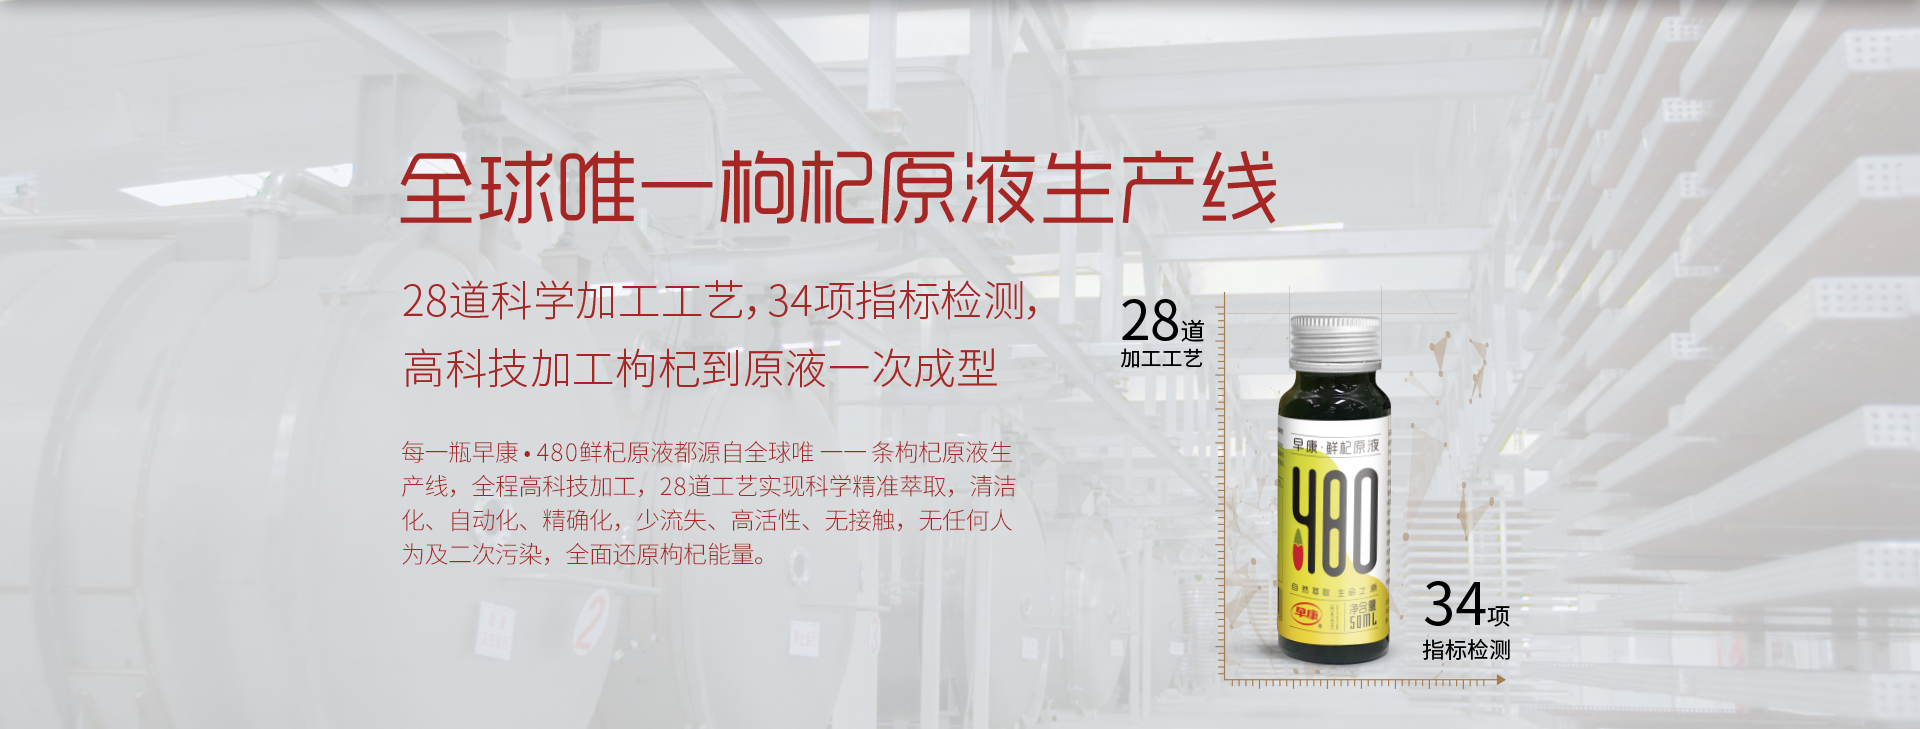
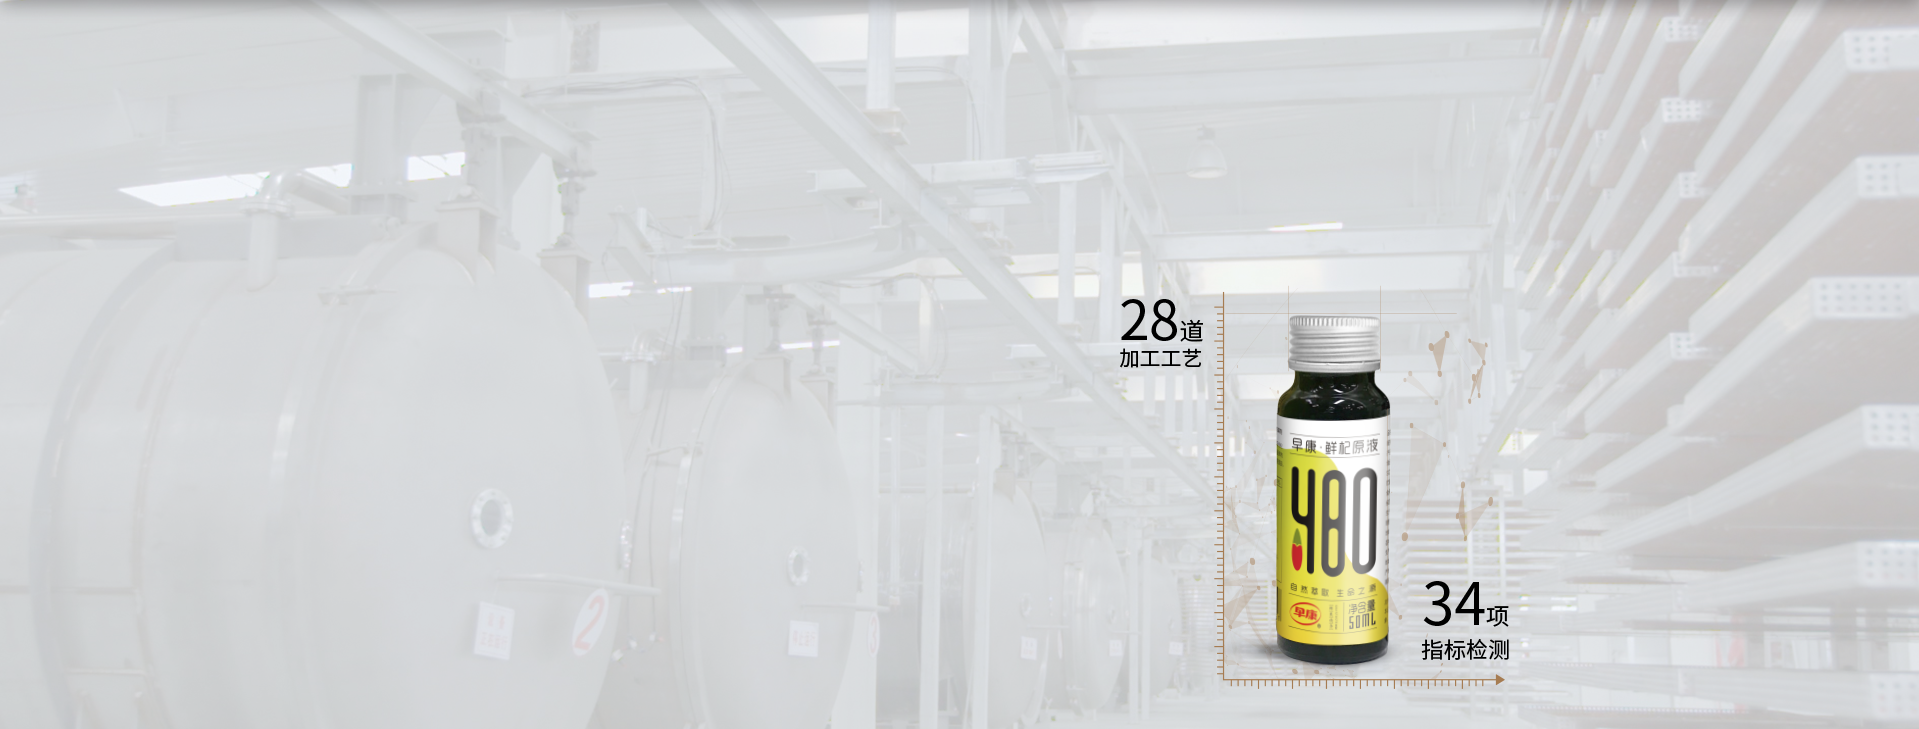
update content
update content

diff --git a/zaokan/ltcy.html b/zaokan/ltcy.html
@@ -418,7 +418,7 @@ color: #ffffff;font-size:0.18rem;}
 
 
 <style type="text/css">
-  .ddfgm-twoss{
+  .ddfgm-twosss{
     height:729px;width:100%;background:url(img/h57.png) no-repeat center center;
   }
   .ddfgm-twosss .container{display:table;height:100%;}
@@ -439,9 +439,9 @@ color: #ffffff;font-size:0.18rem;}
   <div class="container">
     <div class="row">
       <div class="bbbbb">
-         <div class="col-lg-12 col-md-12 col-sm-12 text-center wow fadeInLeftBig"><img src="img/h230.png" class="img-responsive" style="margin:0 auto;display:inline-block;" /></div>
-         <div class="col-lg-12 col-md-12 col-sm-12 text-center wow fadeInRightBig"><img src="img/h231.png" class="img-responsive" style="margin:0 auto;display:inline-block;" /></div>
-         <div class="col-lg-12 col-md-12 col-sm-12 text-center wow fadeInRightBig">只选择源自世界枸杞发源地，且目前全国唯一录入《中国药典》的枸杞品种——中宁枸杞，更高于其他产区品种的营养物质含量，让早康•480鲜杞原液从原料开始就能够保障每一瓶原液的品质与价值。</div>
+         <div class="col-lg-12 col-md-12 col-sm-12 text-center wow fadeInLeftBig"><img src="img/h232.png" class="img-responsive" style="margin:0 auto;display:inline-block;" /></div>
+         <div class="col-lg-12 col-md-12 col-sm-12 text-center wow fadeInRightBig"><img src="img/h233.png" class="img-responsive" style="margin:0 auto;display:inline-block;" /></div>
+         <div class="col-lg-12 col-md-12 col-sm-12 text-center wow fadeInRightBig">高营养价值品种、全国核心小产区、4500多亩全有机标准种植、头茬鲜枸杞原料、GMP药品级生产加工、6小时鲜果到液原产地生产流水线，多环节品质检测、6大国家专利技术、近20年行业高标准生产，从核心产区到6H鲜活加工全程自有，只为保证每一颗枸杞诞生到成品的鲜与活。</div>
       </div>
     </div>
   </div>
@@ -455,8 +455,38 @@ color: #ffffff;font-size:0.18rem;}
 
 
 
+<style type="text/css">
+  .ddfgm-twossss{
+    height:729px;width:100%;background:url(img/h58.png) no-repeat center center;
+  }
+  .ddfgm-twossss .container{display:table;height:100%;}
+  .ddfgm-twossss .container .row{display:table-cell;vertical-align:middle;}
+  .ddfgm-twossss .container .row .bbbbb{display:table;}
+  .ddfgm-twossss .container .row .bbbbb>div{text-align:left;}
+  .ddfgm-twossss .container .row .bbbbb>div:first-child+div{margin-top:42px;}
+  .ddfgm-twossss .container .row .bbbbb>div:first-child+div+div{  font-size: 24px;
+  width: 547px;
+  height: 160px;
+  line-height: 34px;
+  letter-spacing: 3px;
+  color: #a62624;margin-top:42px;}
+</style>
 
-<div class="ddfgm-two"><img src="img/h58.png" /></div>
+
+<div class="ddfgm-twossss">
+  <div class="container">
+    <div class="row">
+      <div class="bbbbb">
+         <div class="col-lg-12 col-md-12 col-sm-12 text-center wow fadeInLeftBig"><img src="img/h234.png" class="img-responsive" style="margin:0 auto;display:inline-block;" /></div>
+         <div class="col-lg-12 col-md-12 col-sm-12 text-center wow fadeInRightBig"><img src="img/h235.png" class="img-responsive" style="margin:0 auto;display:inline-block;" /></div>
+         <div class="col-lg-12 col-md-12 col-sm-12 text-center wow fadeInRightBig">每一瓶早康 • 480鲜杞原液都源自全球唯 一一 条枸杞原液生产线，全程高科技加工，28道工艺实现科学精准萃取，清洁化、自动化、精确化，少流失、高活性、无接触，无任何人为及二次污染，全面还原枸杞能量。</div>
+      </div>
+    </div>
+  </div>
+</div>
+
+
+<!-- <div class="ddfgm-two"><img src="img/h58.png" /></div> -->
 
 
 

diff --git a/zaokan/culture.html b/zaokan/culture.html
@@ -8,6 +8,7 @@
   <link rel="stylesheet" href="css/swiper.min.css">
   <link rel="stylesheet" href="css/bootstrap.css">
   <link rel="stylesheet" type="text/css" href="css/common.css">
+  <link rel="stylesheet" type="text/css" href="css/animate.min.css">
 <!--[if lte IE 9]>
   <script src="js/html5shiv.min.js"></script>
   <script src="js/respond.min.js"></script>
@@ -115,15 +116,21 @@
   <div class="text-center" style="margin-bottom:20px"><img src="img/h151.png" class="img-responsive" style="margin:0 auto;" /></div>
 
 
+
 <style>
 .culture-two{width:100%;height:861px;background:url(img/h154.png) no-repeat center center;display:table;}
 .culture-two .container{display:table-cell;vertical-align:middle;}
 </style>
   <div class="culture-two">
     <div class="container">
-      <img src="img/h157.png" class="img-responsive" style="margin:0 auto;" />
+      <img src="img/h157.png" class="img-responsive wow fadeInUpBig" style="margin:0 auto;" />
     </div>
   </div>
+
+
+
+
+
 
 
 
@@ -136,7 +143,7 @@
 </style>
   <div class="culture-thr">
     <div class="container">
-      <img src="img/h158.png" class="img-responsive" style="margin:0 auto;" />
+      <img src="img/h158.png" class="img-responsive wow fadeInUpBig" style="margin:0 auto;" />
     </div>
   </div>
 
@@ -175,7 +182,7 @@
 
   <div class="culture-fou">
     <div class="container">
-      <img src="img/h159.png" class="img-responsive" style="margin:0 auto;" />
+      <img src="img/h159.png" class="img-responsive wow fadeInUpBig" style="margin:0 auto;" />
     </div>
   </div>
 
@@ -252,6 +259,11 @@
 <script src="js/bootstrap.js"></script>
 <script type="text/javascript" src="js/homejquery.js"></script>
 <script src="js/swiper.min.js"></script>
-
+<script type="text/javascript" src="js/wow.min.js"></script>
+<script type="text/javascript">
+  if (!(/msie [6|7|8|9]/i.test(navigator.userAgent))){
+  new WOW().init();
+  };
+</script>
 </body>
 </html>
